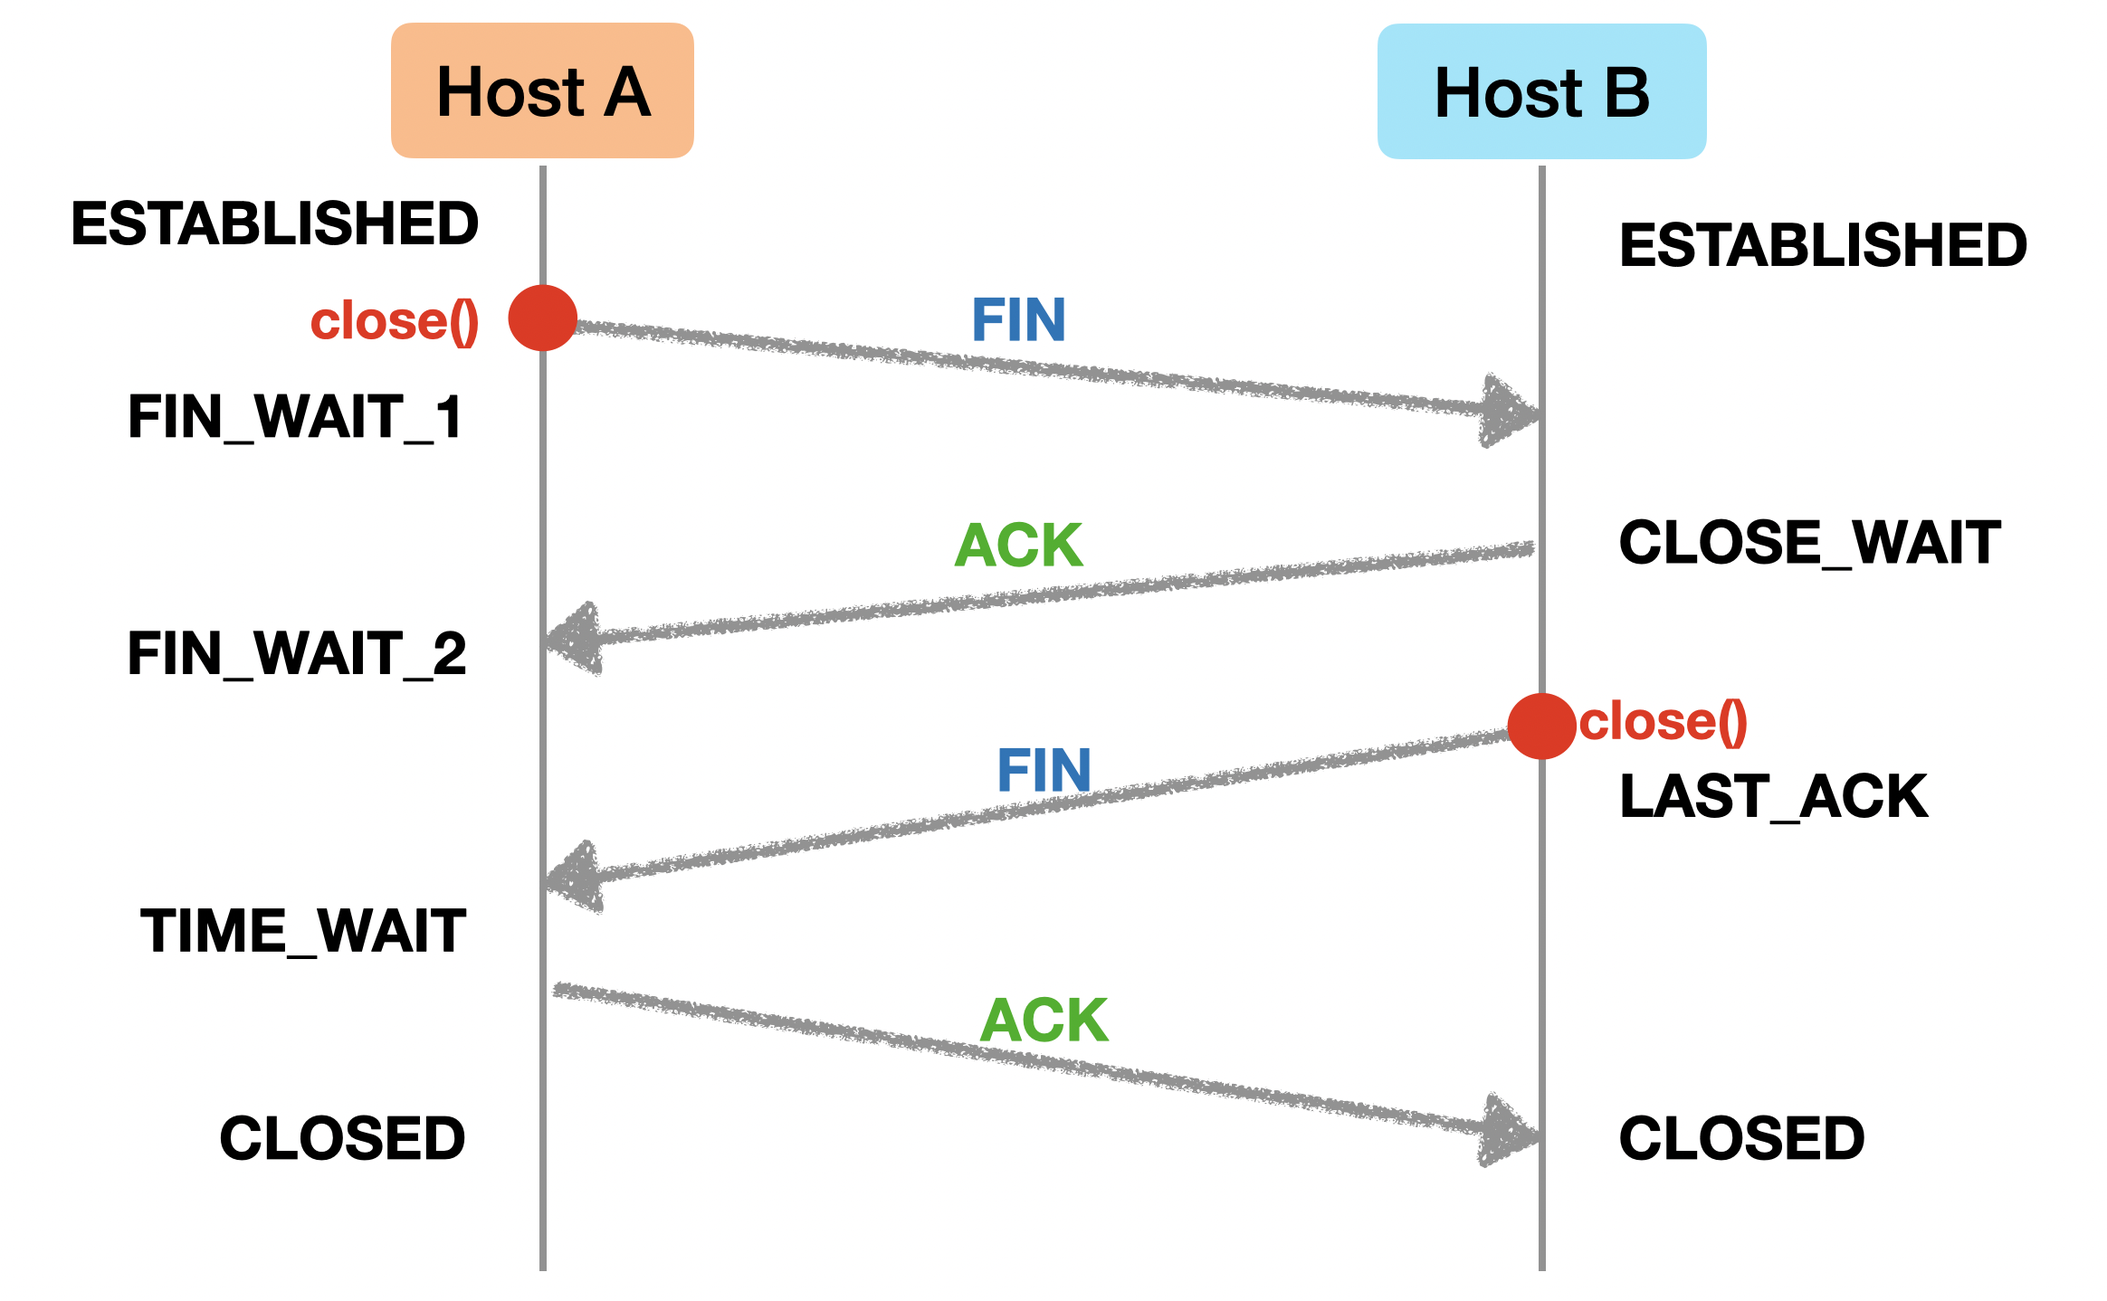
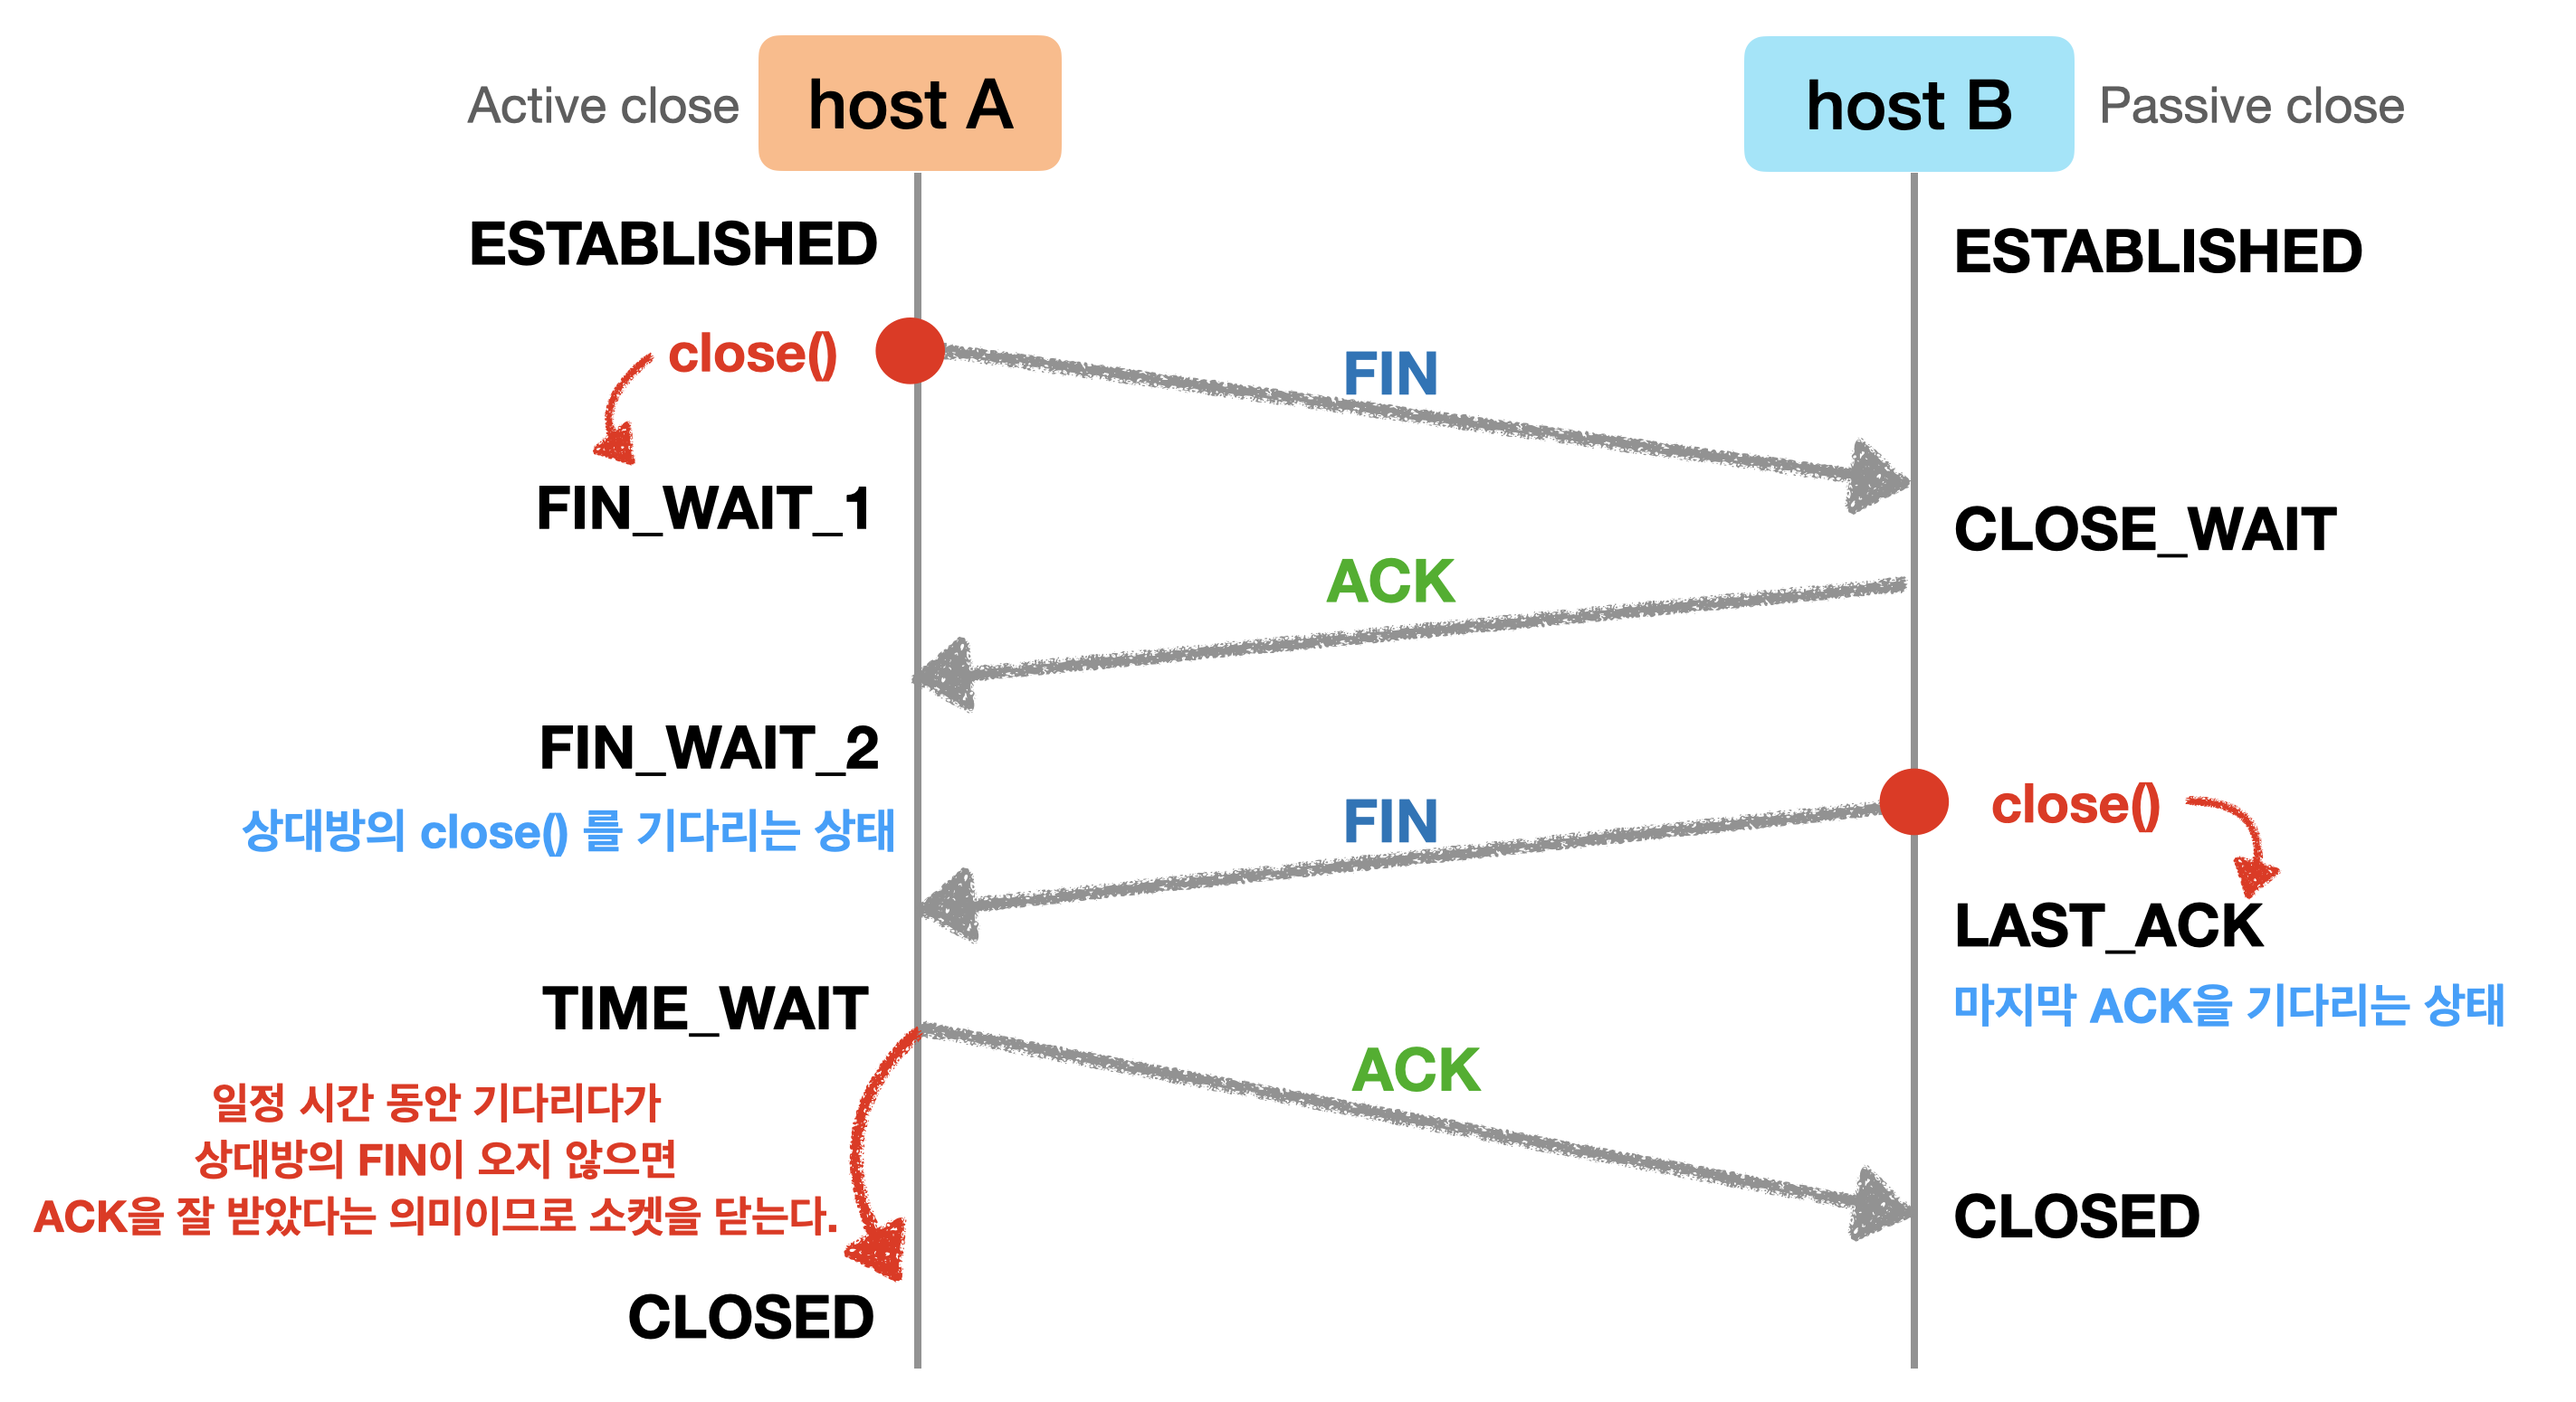
Add the content about time_wait

Changed region(s): [[0.0, 0.1224, 0.9897, 0.9791], [0.1856, 0.0, 0.433, 0.1224], [0.6495, 0.0, 0.9278, 0.1224]]

diff --git a/socket/4-way-handshake.md b/socket/4-way-handshake.md
@@ -24,16 +24,31 @@ write buffer에 쌓인 데이터는 상대방의 read buffer에 쌓이는 방식
 
 ## 4-way handshake
 
-![png](/_img/4way_handshake.png) <br>
+![png](/assets/images/network/4way_handshake.png){: .align-center}{: width="100%" height="100%"}<br>
 
-- FIN : host A가 close()를 호출하면 연결을 끊겠다라는 신호를 보내기 위해 FIN flag를 1로 설정한 패킷을 host B에게 보낸다.
-- ACK : FIN flag가 1로 설정된 패킷을 받은 host B는 **'연결을 종료하겠다는 것을 일단 알고있겠다.'** 라는 의미로 해당 패킷에 대한 응답을 보낸다.
-  - 응답을 받은 host A는 상대방이 FIN flag가 1인 패킷을 보낼 때까지 기다린다.
-- FIN : host B는 출력 버퍼에 남은 데이터를 일단 host A에게 보내고 close()를 호출해 **'나도 연결을 종료하겠다.'** 라는 의미로 FIN flag를 1로 설정해 패킷을 한번더 보낸다.
-- ACK : host A는 이에 대한 응답을 보내고 서로의 연결이 종료된다.
-
+- 먼저 연결을 끊고자 하는 쪽을 **Active close**라 하고, 상대를 **Passive close**라고 한다.
+- FIN_WAIT_1 (host A) : close()를 호출하면 '연결을 끊겠다'라는 신호를 보내기 위해 FIN flag를 1로 설정한 패킷을 상대에게 보내면서 ```FIN_WAIT_1``` 상태가 된다.
+- CLOSE_WAIT (host B) : 상대에게 FIN flag가 1인 패킷을 받았다면 **'연결을 종료하겠다는 것을 일단 알고있겠다.'** 라는 의미로 해당 패킷에 대한 응답 ACK을 보내고 ```CLOSE_WAIT``` 상태가 된다. 출력 버퍼에 있는 데이터를 모두 보낸 다음 서로간의 연결을 끊어야 하므로 ACK 만 보낸다.
+- FIN_WAIT_2 (host A) : 상대방이 FIN flag가 1인 패킷을 보낼 때까지 기다리는데 이를 ```FIN_WAIT_2``` 상태라고 한다.
+- LAST_ACK (host B) : 상대에게 모든 데이터를 보냈다면 close()를 호출해 FIN flag가 1인 패킷을 보낸다.
+- TIME_WAIT (host A) : 상대에게 FIN flag가 1인 패킷을 받았다면 서로가 연결을 끊을 준비가 된 것이므로 이에 대한 응답 ACK을 보낸다.
+- CLOSED : ACK을 받으면 소켓을 닫아 연결을 종료한다.
 
 이렇게 4번의 패킷 전송으로 인해 연결이 종료되므로 이를 ```4-way handshake```라고 한다.<br><br>
+
+## TIME_WAIT
+
+![png](/assets/images/network/time_wait.png){: .align-center}{: width="95%" height="95%"}<br>
+연결을 먼저 끊겠다고 한 Active close의 소켓은 TIME_WAIT 상태를 거친다. TIME_WAIT 상태를 거치는 이유는 **TIME_WAIT 상태 동안에는 해당 소켓의 주소를 다른 소켓에게 할당하는 것을 막기 위함**이다.<br>
+서로가 FIN flag가 1인 소켓을 주고 받았다면 Active close는 마지막 ACK을 상대에게 보낸다. 하지만 상대가 ACK을 받지 못하면 LAST_ACK 상태에서 FIN flag가 1인 소켓을 다시 보낸다.<br>
+FIN flag가 1인 소켓을 다시 받은 Active close는 '상대가 ACK을 받지 못했구나.' 라고 알아 차린 뒤 다시 ACK을 보낸다. 일정 기간 동안 상대방에게 소켓이 오지 않으면 '상대가 소켓을 닫았구나.' 라고 인식해 자신도 소켓을 닫는다.<br>
+
+TIME_WAIT 시간은 커널에 default 값으로 정해져 있지만 수정가능하다. passive close 에게 ACK을 보내면 시간이 측정되는데 상대가 ACK을 받지 못해 다시 ACK을 보내는 경우 시간을 다시 측정한다.<br>
+
+![png](/assets/images/network/time_wait2.png){: .align-center}{: width="80%" height="80%"}<br>
+TIME_WAIT 상태를 거치는 이유는 **TIME_WAIT 상태 동안에는 해당 소켓의 주소를 다른 소켓에게 할당하는 것을 막기 위함**이다. 마지막 ACk이 제대로 전달되지 않을 경우 상대는 FIN flag가 1인 소켓을 다시 보내는데 이 과정에서 기존 포트번호를 다른 소켓에게 할당했다면 제대로된 전송이 이루어지지 않기 때문이다.<br>
+TIME_WAIT 상태는 클라이언트에겐 중요하지 않고 서버에게 중요한 개념이다. 클라이언트 소켓을 생성할 땐 우리가 주소를 직접 지정해주지 않고 connect() 호출시 커널에 자동으로 해준다. 즉, 우리가 클라이언트 소켓의 포트번호를 알 필요도 없고 close() 직후 새로운 클라이언트 소켓을 생성해도 커널이 알아서 적절한 포트번호를 지정해준다.<br>
+하지만 서버 소켓을 생성할 떄는 어떤 주소를 쓰고 있는지 명시하기 위해 bind()를 호출한다. 즉, 우리가 원하는 포트번호를 지정할 수 있기 때문에 완전히 연결이 끝나지 않는 포트 번호를 사용하면 안된다. 그러므로 TIME_WAIT 상태는 서버에게 중요한 개념이며, TIME_WAIT 동안 기존 소켓 주소를 다른 소켓에게 할당하면 안된다.<br><br>
 
 ## Half-close
 
